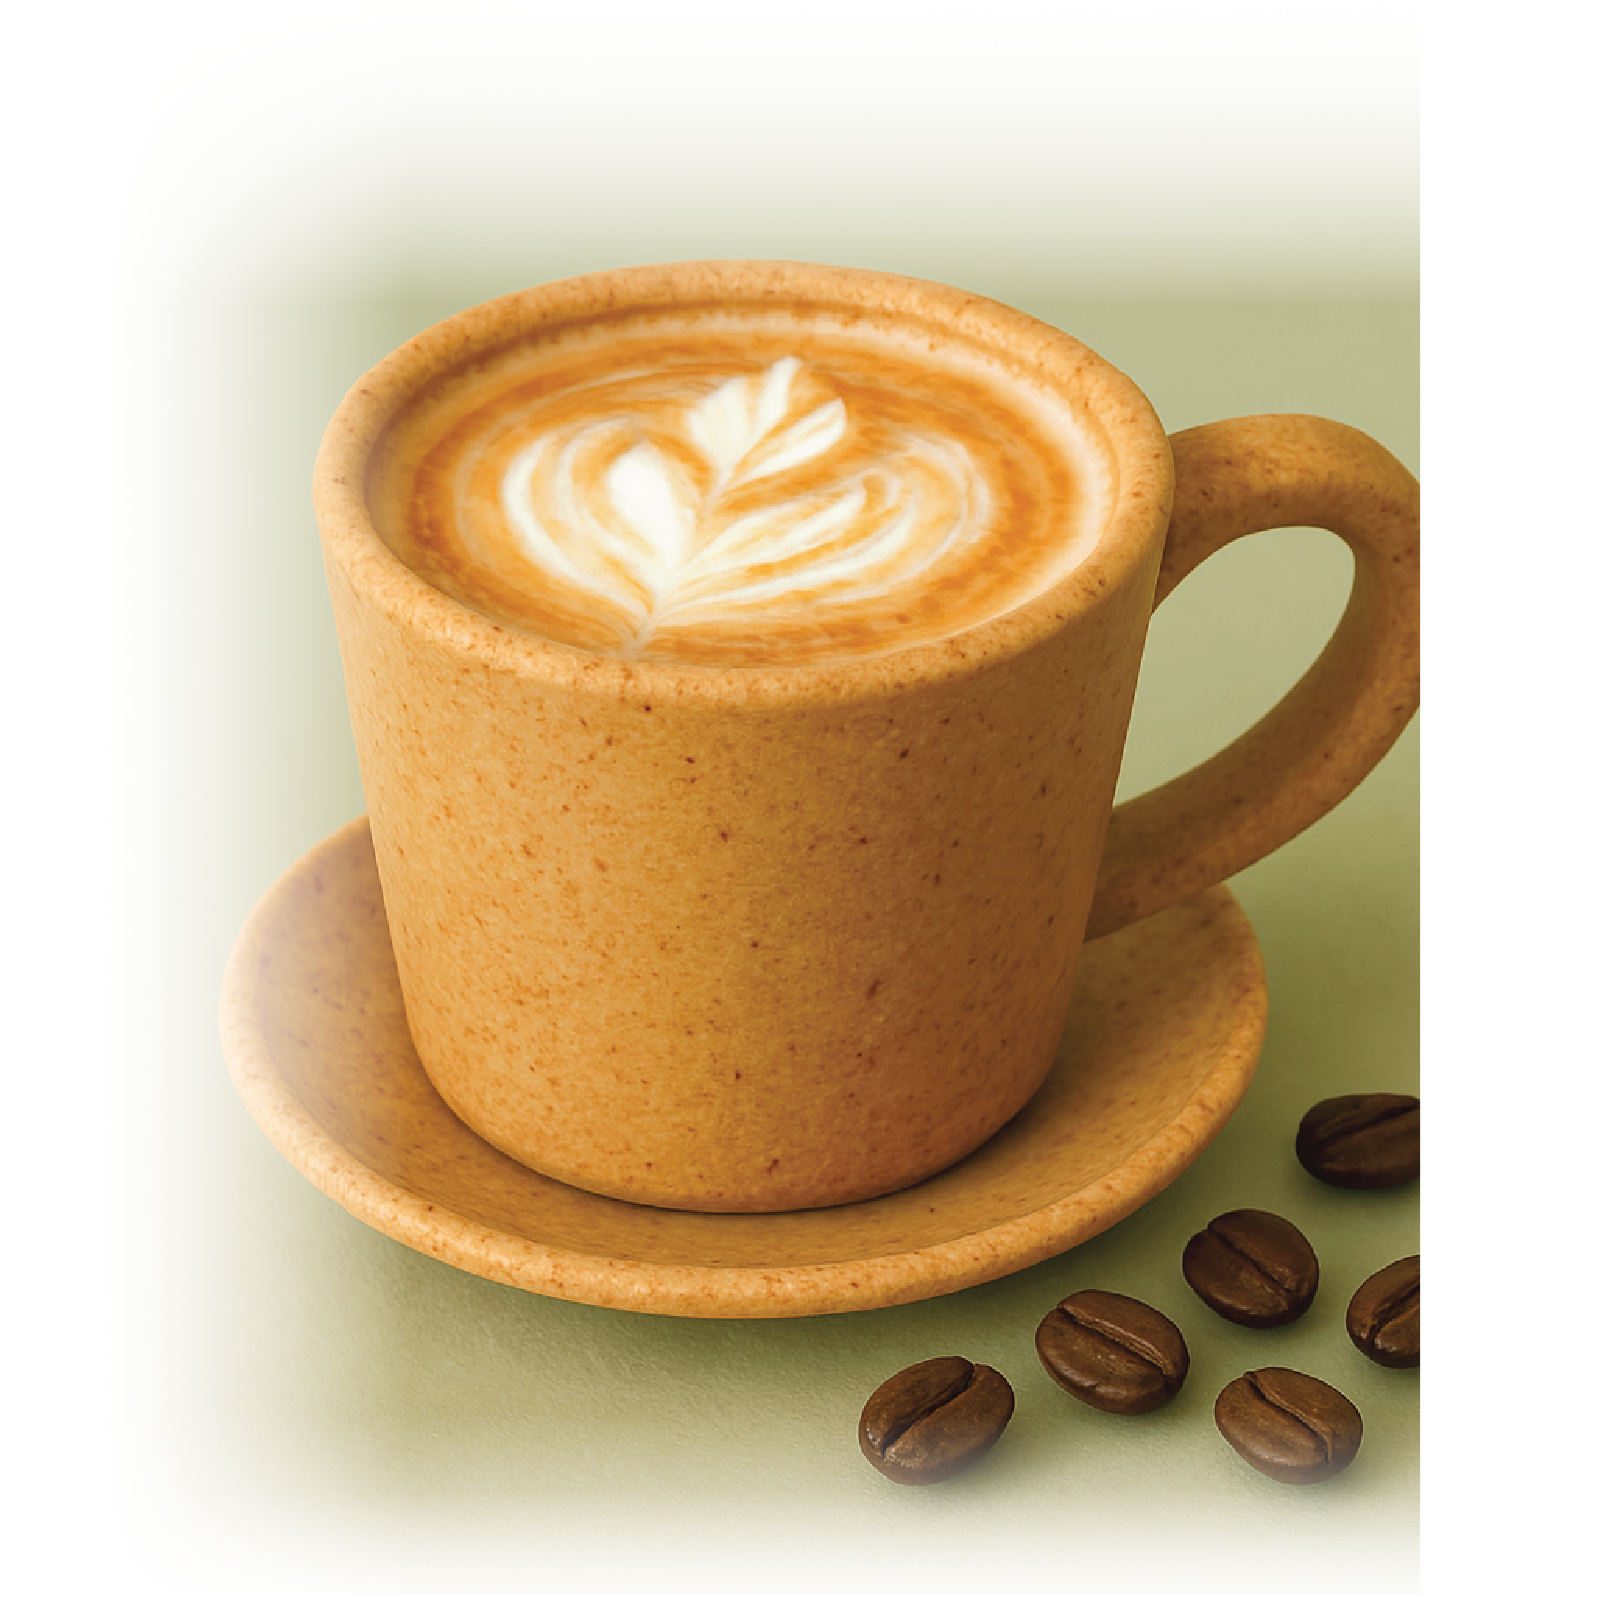
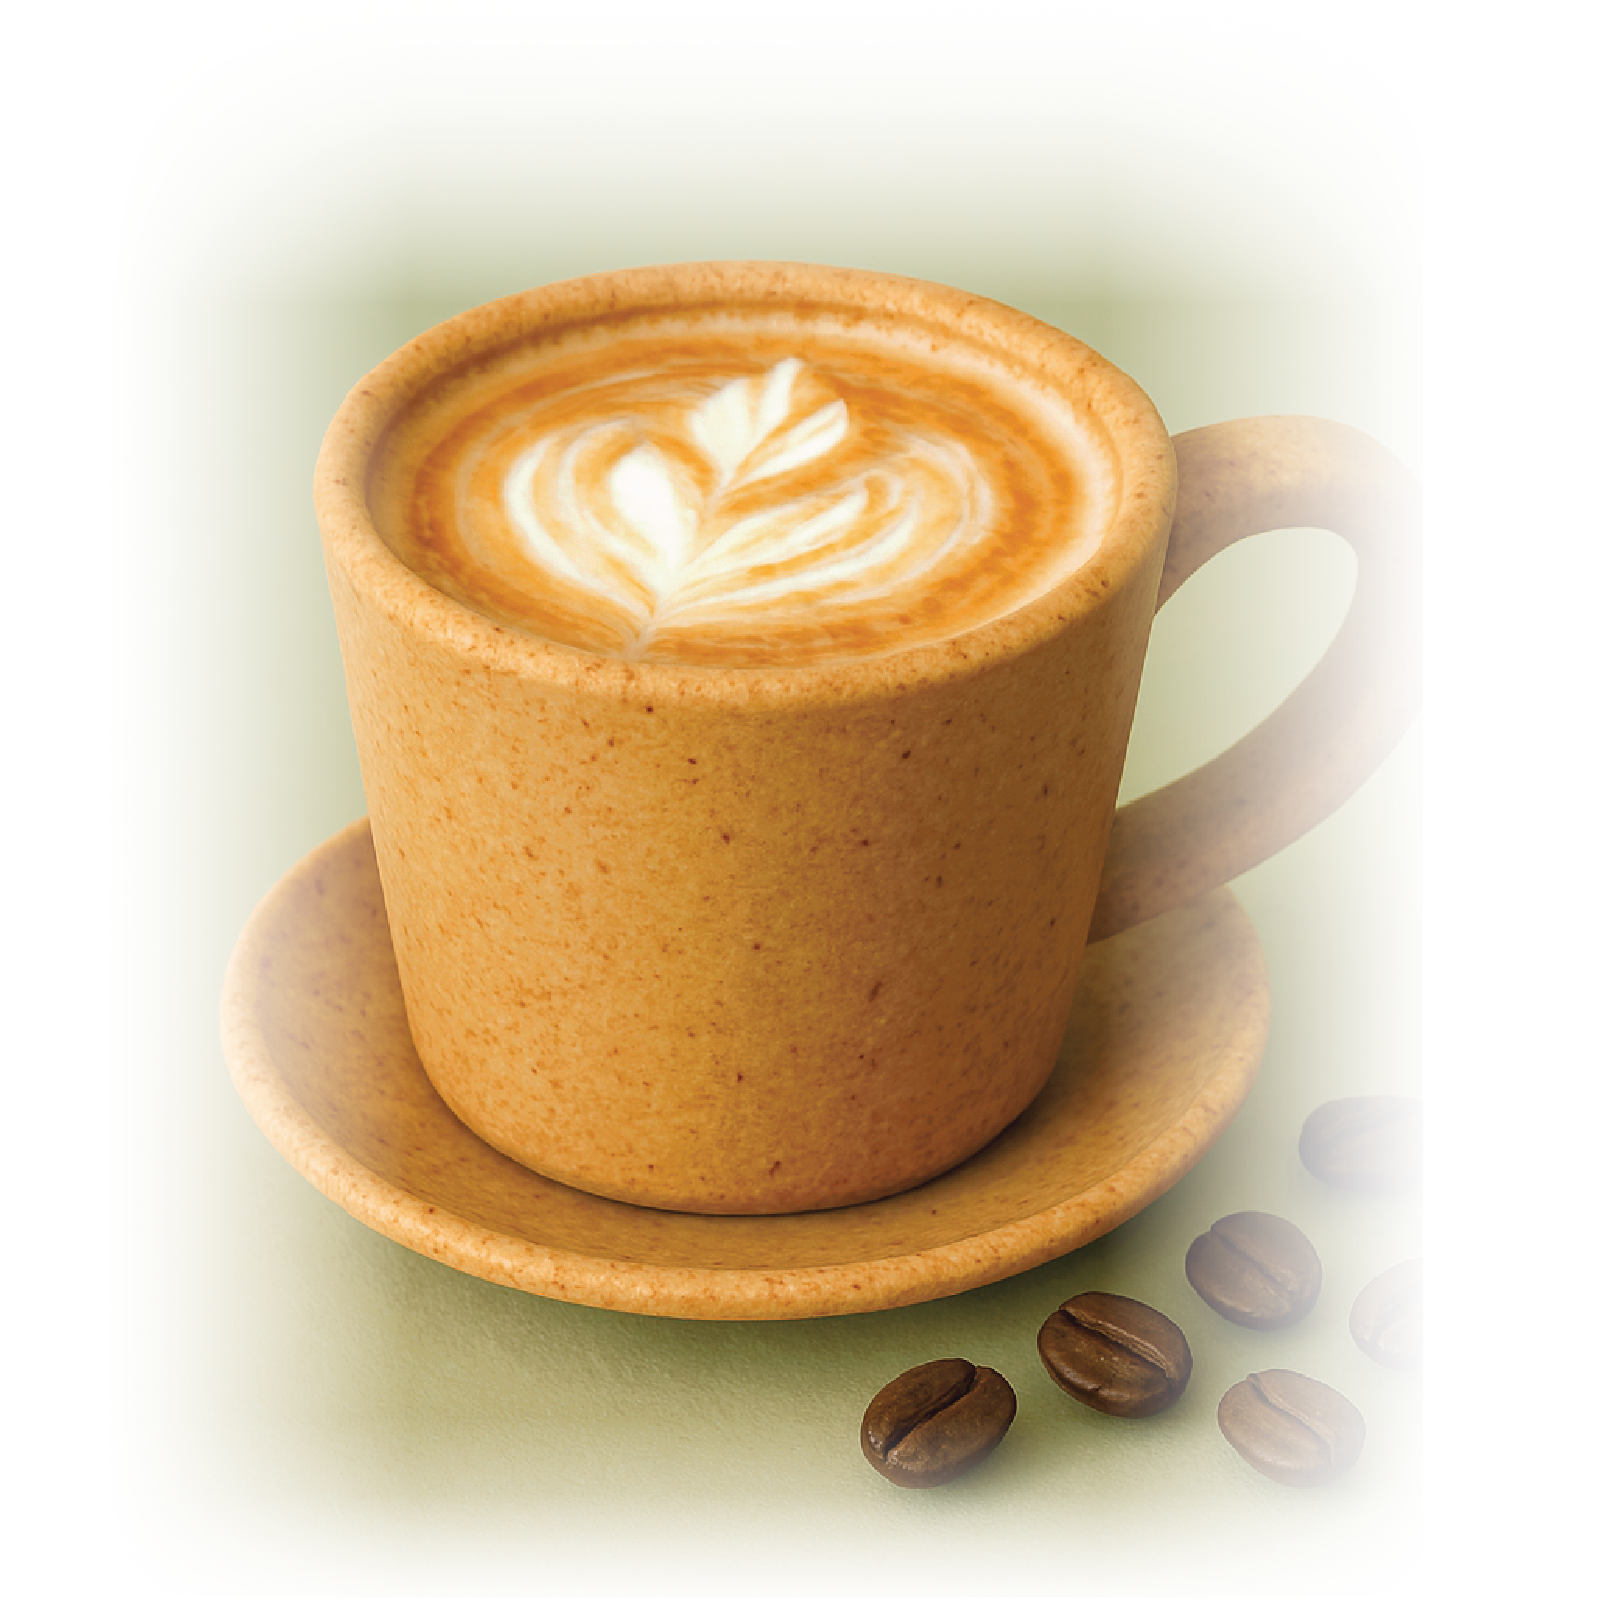
design chnahes

Changed region(s): [[0.7057, 0.092, 0.8898, 0.9818]]

diff --git a/edible_utensils/src/App.css b/edible_utensils/src/App.css
@@ -1,19 +1,24 @@
 @import url('https://fonts.googleapis.com/css2?family=Playfair+Display:wght@400;700&display=swap');
+@import url('https://fonts.googleapis.com/css2?family=Lato:wght@300;400;700&display=swap');
 body, html {
   margin: 0;
   padding: 0;
-  font-family: 'Segoe UI', sans-serif;
   background: #C0CDAF;
 }
-h1, h2, h3,.navbar,.hero-title {
+h1, h2, h3,.navbar,.tagline,.headline {
   font-family: 'Playfair Display', serif;
+}
+p{
+  color: #98703e;
+  font-family: 'Lato', serif;
+  font-weight: 400;
 }
 
 .navbar {
   display: flex;
   align-items: center;
-  justify-content: space-between;
-  padding: 1rem 3rem;
+  justify-content:space-around;
+  padding: 1rem 4rem;
   background-color: #d2debe; /* matches your green background */
 }
 
@@ -23,7 +28,8 @@ h1, h2, h3,.navbar,.hero-title {
 
 .nav-links {
   display: flex;
-  gap: 3rem;
+  gap: 5rem;
+  font-family: 'Playfair Display', sans-serif;
 }
 
 .nav-links span {
@@ -45,7 +51,7 @@ h1, h2, h3,.navbar,.hero-title {
 /* Hero Section */
 .hero-slide {
   background: #d2debe;
-  padding: 4rem 2rem;
+  padding: 0rem 10rem;
 }
 
 .hero-content {
@@ -79,6 +85,8 @@ h1, h2, h3,.navbar,.hero-title {
   font-size: 1.1rem;
   color: #1d3557;
   margin-bottom: 2rem;
+  font-family: 'Lato', serif;
+  font-weight: 400;
 }
 
 .hero-buttons {
@@ -92,6 +100,7 @@ h1, h2, h3,.navbar,.hero-title {
   padding: 0.75rem 1.5rem;
   border: none;
   font-weight: bold;
+  font-family: 'Playfair Display', sans-serif;
   border-radius: 999px;
   cursor: pointer;
 }
@@ -102,6 +111,7 @@ h1, h2, h3,.navbar,.hero-title {
   color: #1d3557;
   padding: 0.75rem 1.5rem;
   font-weight: bold;
+  font-family: 'Playfair Display', sans-serif;
   border-radius: 999px;
   cursor: pointer;
 }
@@ -228,7 +238,7 @@ h1, h2, h3,.navbar,.hero-title {
 .features-section {
   padding: 4rem 2rem;
   background-color: #f9fff4;
-  text-align: center;
+  text-align: left;
 }
 
 .features-title {
@@ -236,6 +246,7 @@ h1, h2, h3,.navbar,.hero-title {
   font-size: 2rem;
   color: #17642f;
   margin-bottom: 2rem;
+  margin-left: 4rem;
 }
 
 .features-container {
@@ -275,13 +286,14 @@ h1, h2, h3,.navbar,.hero-title {
 .better-tomorrow-section {
   padding: 4rem 2rem;
   background: linear-gradient(to bottom, #d7e5c6, #e7edd7);
-  text-align: center;
+  text-align: left;
 }
 
 .better-tomorrow-title {
-  font-size: 2rem;
+  font-size: 3rem;
   color: #1d3b5f;
-  margin-bottom: 2rem;
+  margin-bottom: 3rem;
+  margin-left: 4rem;
 }
 
 .better-tomorrow-cards {
@@ -339,6 +351,8 @@ h1, h2, h3,.navbar,.hero-title {
   padding: 0.5rem 1rem;
   border-radius: 999px;
   font-weight: 600;
+  font-size: 0.9rem;
+  font-family: 'Playfair Display', serif;
   border: none;
   cursor: pointer;
 }
@@ -384,6 +398,9 @@ h1, h2, h3,.navbar,.hero-title {
 }
 
 .mission-text p {
+  color: #1d3b5f;
+  font-family: 'Lato', serif;
+  font-weight: 300;
   font-size: 1.1rem;
   line-height: 1.6;
 }
@@ -424,7 +441,7 @@ h1, h2, h3,.navbar,.hero-title {
 }
 .footer-section {
   background-color: #c1d7ae;
-  padding: 3rem 2rem;
+  padding: 3rem 8rem;
   font-family: 'Georgia', serif;
   color: #1d3b5f;
 }
@@ -437,7 +454,8 @@ h1, h2, h3,.navbar,.hero-title {
   margin: 0 auto;
 }
 
-.footer-links {
+.footer-links p{
+  color: #1d3b5f;
   display: flex;
   flex-direction: column;
   gap: 1.5rem;

diff --git a/edible_utensils/src/App.js b/edible_utensils/src/App.js
@@ -48,7 +48,7 @@ function App() {
               </div>
             </div>
             <div className="hero-image">
-              <img src="/images/spoon5.png" alt="Spoonie Bites" />
+              <img src="/images/frame2.png" alt="Spoonie Bites" />
             </div>
           </div>
         </div>
@@ -171,7 +171,7 @@ function App() {
   <div className="mission-content">
     <div className="mission-text">
       <h2>Sustainable choices start at the table</h2>
-      <p>
+      <p className="sustain">
         We are on a mission to reduce waste by creating edible cutlery that’s safe, 
         tasty, and leaves nothing behind.
       </p>
@@ -193,6 +193,7 @@ function App() {
 
           {/* Right Side Social and Subscribe */}
           <div className="footer-right">
+            
             <h3>Be in the first to know</h3>
             <div className="social-icons">
               <i className="fab fa-linkedin"></i>
@@ -203,8 +204,20 @@ function App() {
 
             <div className="subscribe-form">
               <div className="input-wrapper">
-                <input type="email" placeholder="Email Address" />
+              <form
+                  action="mailto:fatimasanaissahac25@gmail.com"
+                  method="post"
+                  encType="text/plain"
+                >
+                <input
+                type="email"
+                id="Email"
+                name="Email"
+                placeholder="Email Address"
+                required
+              />
                 <button type="submit">SUBSCRIBE</button>
+                </form>
               </div>
               <p className="subscribe-note">Get updates, coupons and news</p>
             </div>
